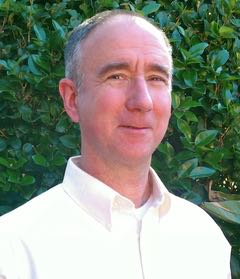
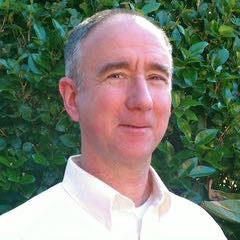
update team page with Dan Hendricks

diff --git a/src/components/team/index.js b/src/components/team/index.js
@@ -235,10 +235,7 @@ const query = graphql`
     nick: file(relativePath: { eq: "nick.jpg" }) {
       ...childSharp
     }
-    connie: file(relativePath: { eq: "connie.jpg" }) {
-      ...childSharp
-    }
-    jon: file(relativePath: { eq: "jon.jpg" }) {
+    dan: file(relativePath: { eq: "dan.jpg" }) {
       ...childSharp
     }
     claude: file(relativePath: { eq: "claude_2_cropped.png" }) {

diff --git a/src/data/content/team.md b/src/data/content/team.md
@@ -71,15 +71,9 @@ team:
       bioDescription: "“Tech companies continue to see San Diego as a place to grow their organizations and also to attract and retain quality talent. I look forward to helping bridge the gap between companies, community and talent and finding fun innovative ways of attracting talent to the city we love!”"
       photo: "kristin"
   - leader:
-      name: "Connie Quach"
-      email: "connie@sandiegotechhub.com"
+      name: "Dan Hendricks"
+      email: "dan@opensourcemakerlabs.com"
       pillar: "innovation"
-      bioDescription: '"I am excited to lead the "Innovation" pillar on behalf of this organization. San Diego is thriving with new ventures and technologies, and we have the talent and passion to grow our tech presence. I want to help connect people to opportunities, and it''s my way of giving back to all my friends who have helped me along the way (but this time, at scale!)."'
-      photo: "connie"
-  - leader:
-      name: "Jon Barton"
-      email: "JBarton@TEKsystems.com"
-      pillar: "innovation"
-      bioDescription: '"The San Diego Tech Hub is important to me because it''s the most pirate of endeavors; we are operating at the edges of San Diego''s Tech community to bring out its most creative, innovative, and inclusive members of established enterprises to create something that challenges the status quo and transforms the community for the better. After all, ''it''s more fun to be a pirate than to join the navy.''"'
-      photo: "jon"
+      bioDescription: "<p>“We see an incredible amount of innovation and entrepreneurship in this region. From the many microbreweries in the area, to advanced manufacturing companies, to energy and defense industries, to new technology startups – it's an area with incredible economic variety.</p><p>Combined with quality schools in the region, there's potential for significant sustained growth, creating more opportunities for the people that live here. SDTH can be a catalyst to connect people and opportunities in unique ways that truly make a difference.”</p>"
+      photo: "dan"
 ---
